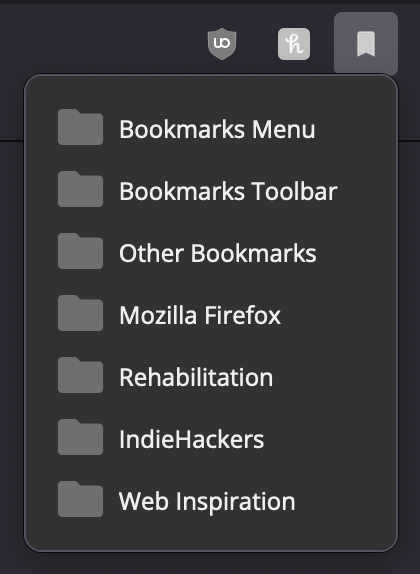
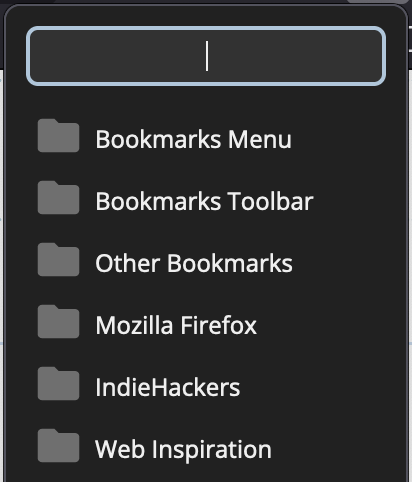
Updated manifest to v1.2 + new screenshot 2

Changed region(s): [[0.0, 0.0, 1.0, 1.0]]

diff --git a/README.md b/README.md
@@ -2,7 +2,7 @@
 Firefox add-on that enables bookmarking of multiple selected tabs.
 
 1. <img src="screenshots/1.png" alt="Browser action button" width="200"/>
-2. <img src="screenshots/2.png" alt="Displays list of bookmark folders in your browser" width="200"/>
+2. <img src="screenshots/2.png" alt="Displays list of bookmark folders in your browser together with a searchbar" width="200"/>
 3. <img src="screenshots/3.png" alt="Shift or command/ctrl + left-click to mult-select tabs. Bookmark by selecting the folder" width="500"/>
 4. <img src="screenshots/4.png" alt="Result" width="200"/>
 
